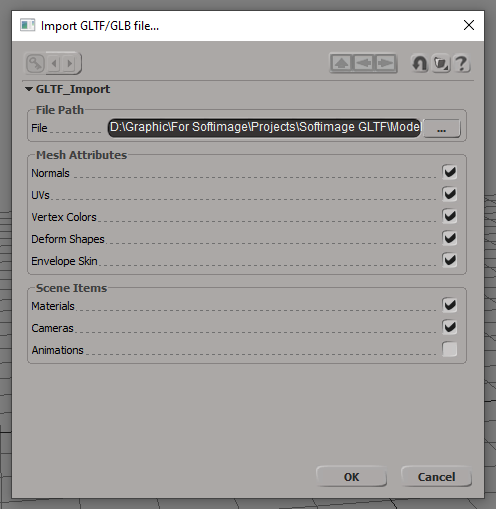
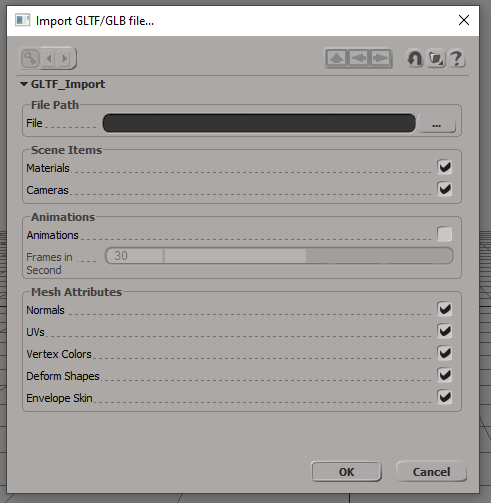
Update gltf page

diff --git a/gltfPage.html b/gltfPage.html
@@ -9,10 +9,10 @@
 		<div class="content_wrapper">
         <div class="content">
 			<h1>Softimage GLTF</h1>
-			<p class="lastUpdate">Last update: 21.06.2022</p>
+			<p class="lastUpdate">Last update: 27.06.2022</p>
 			<p class="backLink"><a href="index.html">Back to the main page</a></p>
 			
-			<p><b>Description: </b> This addon allows to import *.gltf and *.glb files into Softimage. It based on <a class="generalLink" href="https://github.com/syoyo/tinygltf">tinygltf</a> library. The addon supports the following items from gltf/glb scenes:</p>
+			<p><b>Description: </b> This addon allows to import/export *.gltf and *.glb files into/from Softimage. It based on <a class="generalLink" href="https://github.com/syoyo/tinygltf">tinygltf</a> library. The addon supports the following items for import from gltf/glb scenes:</p>
 			<ul class="left">
 				<li> Scene hierarchy
 				<li> Cameras
@@ -20,7 +20,7 @@
 					<ul class="left">
 						<li> Vertex positions
 						<li> Polygon indices
-						<li> vertex normals
+						<li> Vertex normals
 						<li> Vertex uvs
 						<li> Vertex colors
 						<li> Envelope weights
@@ -30,24 +30,116 @@
 				<li> Skin deformers
 				<li> Materials
 			</ul> <p>The addon does not supports gltf extensions. It recognize only default gltf nodes and attributes.</p>
+			<p>For export the addon supports the following scene items:</p>
+			<ul class="left">
+				<li> Cameras
+				<li> Polygonmesh objects. Export the following mesh attributes:
+					<ul class="left">
+						<li> Vertex positions
+						<li> Polygon indices
+						<li> Vertex normals
+						<li> Vertex uvs
+						<li> Vertex colors
+						<li> Envelope weights
+						<li> Shape deforms
+					</ul>
+				<li> All other scene object exported as nulls
+				<li> Materials. Recognise only materials with special main shader node <i>pbrMetallicRoughness</i>
+				<li> Transform animations
+			</ul>
 			
-			<p><b>Download: </b><a class="generalLink" href="https://github.com/Tugcga/Softimage-GLTF-IO/releases/download/r.1/Softimage_GLTF_r1.xsiaddon">Softimage GLTF R.1</a>. There are <a class="generalLink" href="https://github.com/Tugcga/Softimage-GLTF-IO">sources</a> of the addon on the GitHub.</p>
+			<p><b>Download: </b><a class="generalLink" href="https://github.com/Tugcga/Softimage-GLTF-IO/releases/download/r.2/Softimage_GLTF_r2.xsiaddon">Softimage GLTF R.2</a>. There are <a class="generalLink" href="https://github.com/Tugcga/Softimage-GLTF-IO">sources</a> of the addon on the GitHub.</p>
 			
 			<p><b>How to use: </b> Install as usual addon for Softimage.</p>
 			
-			<p><b>Import</b></p>
+			<p><b>Import files</b></p>
 			
 			<p>Select File - Import - Import GLTF/GLB...</p>
 			
 			<img src="images/gltf_image_01.png" class="center"/>
 			
-			<p>Select input file and scene items to import</p>
+			<p>Select input file and scene items to import. If you would like to import animation from the file, then activate the <i>Animations</i> parameter and setup the frames in seconds value. In GLTF/GLB files animation is stored in seconds.</p>
 			
 			<img src="images/gltf_image_02.png" class="center"/>
 			
 			<p>Press Ok</p>
 			
 			<img src="images/gltf_image_03.png" class="center"/>
+			
+			<p><b>Materials import</b></p>
+			
+			<p>GTF/GLB format supports only one standard PBR material. This material quite simple and can contains the following textures:</p>
+			<ul class="left">
+				<li> Base color. Use all four channels RGBA
+				<li> Metallic Roughness. Use B channel for metallic and G channel for roughness
+				<li> Normal. Use three channels RGB
+				<li> Occlusion. Use only R channel. In most cases occlusion texture is the same as metallic/roughness texture
+				<li> Emission. Use three channels RGB
+			</ul>
+			
+			<p>If the GLTF/GLB file contains materials and import materials is activated, then importer create the library with the same name as imported file and add all materials to this library. All materials have the same structure. The main shader node is a special <i>pbtMetallicRoughness</i> node. It does not rendered by any render engine. If imported material reference to textures, then it copies to the folder <i>[Project]\Pictures\gltf_io\[File name]</i> and connected to the input ports of the main shader node.</p>
+			
+			<img src="images/gltf_image_04.png" class="center"/>
+			
+			<p><b>Animations import remarks</b></p>
+			
+			<p>In GLTF/GLB animation of rotation is stored in quaternions, but in Softimage rotation is animated by axis angles. In some cases the conversation may prodice wrong result. Consider the following simple animation: plane, rotating in 360 degrees.</p>
+			
+			<img src="images/gltf_image_05.gif" class="center"/>
+			
+			<p>This animation is imported in the following way</p>
+			
+			<img src="images/gltf_image_06.png" class="center"/>
+			
+			<p>Quaternion that encode the rotation from 0.0 to 180.0 degrees converted to the positive angle, but if the quaternion encode degree from 180.0 to 360.0, then it converted to negative angle. This is the natural behavior, because the same quaternion correspond to the infinite number of angles (with period 360.0). It's recommended to bake animation at every frame and use the same frame rate in the import process.</p>
+			
+			<p><b>Export the scene</b></p>
+			
+			<p>Select File - Export - Export GLTF/GLB...</p>
+			
+			<img src="images/gltf_image_07.png" class="center"/>
+			
+			<p>Set the output file name, select items to export and press OK.</p>
+			
+			<img src="images/gltf_image_08.png" class="center"/>
+			
+			<p>The export window has following parameters:</p>
+			
+			<ul class="left">
+				<li> File - full output path. It is possible to use *.gltdf or *.glb extension
+				<li> Embed Images - if activated, then all textures for materials will be saved inside output file using base64 encoder. If the parameter is deactivated, then textures will be copies to the same directory as output file
+				<li> Embed Buffer - if activated, then (as for images) binary scene data will be saved inside output file. If deactivated, then this file will be created in the same directory as output file with the same name (but extension *.bin)
+				<li> Export Mode - if the mode is <i>Selected objects</i>, then only selected objects with all sub-objects will be exported. The mode <i>Whole scene</i> is equivalent to select the scene root node
+				<li> Materials - export materials or not
+				<li> Cameras - export camera objects or not. If deactivated, then all cameras will be exported as null objects
+				<li> Hide Objects - if activated, then hidden (from the view) objects will be exported. If deactivated, then all hidden objects are excluded from exported objects with all sub-objects
+				<li> Animations - if activated, then export transform animations of objects
+				<li> Frames in Second - in Softimage animations are stored in frames, in glt-format animations are stored in seconds. This parameter allows to map frames to seconds
+				<li> Start and End - start and end frames of the animation interval for export
+				<li> Uvs - if activated, then save all uvs of all exported meshes
+				<li> Vertex Colors - if activated, then save all vertex colors of all exported meshes
+				<li> Deform Shapes - if activated, then save all deform shapes as morph targets of all exported meshes. Export only vertex position morph targets, because Softimage does not supports other attributes
+				<li> Envelope Skin - if activated, export skin weights information for all enveloped exported meshes
+			</ul>
+			
+			<p><b>Materials export</b></p>
+			
+			<p>The addon can export materials to the GLTF/GLB format, but this material should satisfy several conditions. For each material the exporter takes the first shader node, connected to the <i>Surface</i> port of the root material node. If this node is not <i>pbrMetallicRoughness</i> node, then the material is skipped. In other case the exporter write all parameters of this node and try to get textures, connected to this node. It check each input port (there are five ports for textures). If the image node is connected to the port, then the exporter save the texture of this node, in all other cases the texture is skipped.</p>
+			
+			<p><b>Animations export</b></p>
+			
+			<p>The exporter allows to export transform animations of scene objects. For each object the exporter check transform parameters. If one of them is animated, then the exporter save the value of this parameter at each frame from the selected interval in the linear interpolation mode.</p>
+			
+			<p><b>Skins export</b></p>
+			
+			<p>If a mesh has envelope deformer, then it exports as skinned object. There are two important differences with respect to other objects. At first, the transform of the skinned object is ignored. At second, all deformer (null or bone) transforms exported with values from <i>Static Kine State</i>, i.e. it export transforms at the moment when the envelope deformer is applied. So, in GLTF/GLB scene the skinned object stored in neutral pose. If you need other pose, then save actual deformer transforms as animated parameters.</p>
+			
+			<p>The recommended hierarchy for the skinned object is the following</p>
+			
+			<img src="images/gltf_image_09.png" class="center"/>
+			
+			<p><i>Armature</i> is a root null for the skined object. As sub-objects it should contains geometry mesh objects and deformers. Geometry (<i>Cesium_Man<\i> in the example) is a separate object, and it shouldn't contains as sub-objects any deformer. The hierarchy of deformers are separate from geometry. In the example it starts from the object <i>Skeleton_torso_joint_1</i>. If any deformer is sub-object of the skined geometry, then it may contains invalid pose transform.</p>
+			
 			
         </div>
 		</div>
